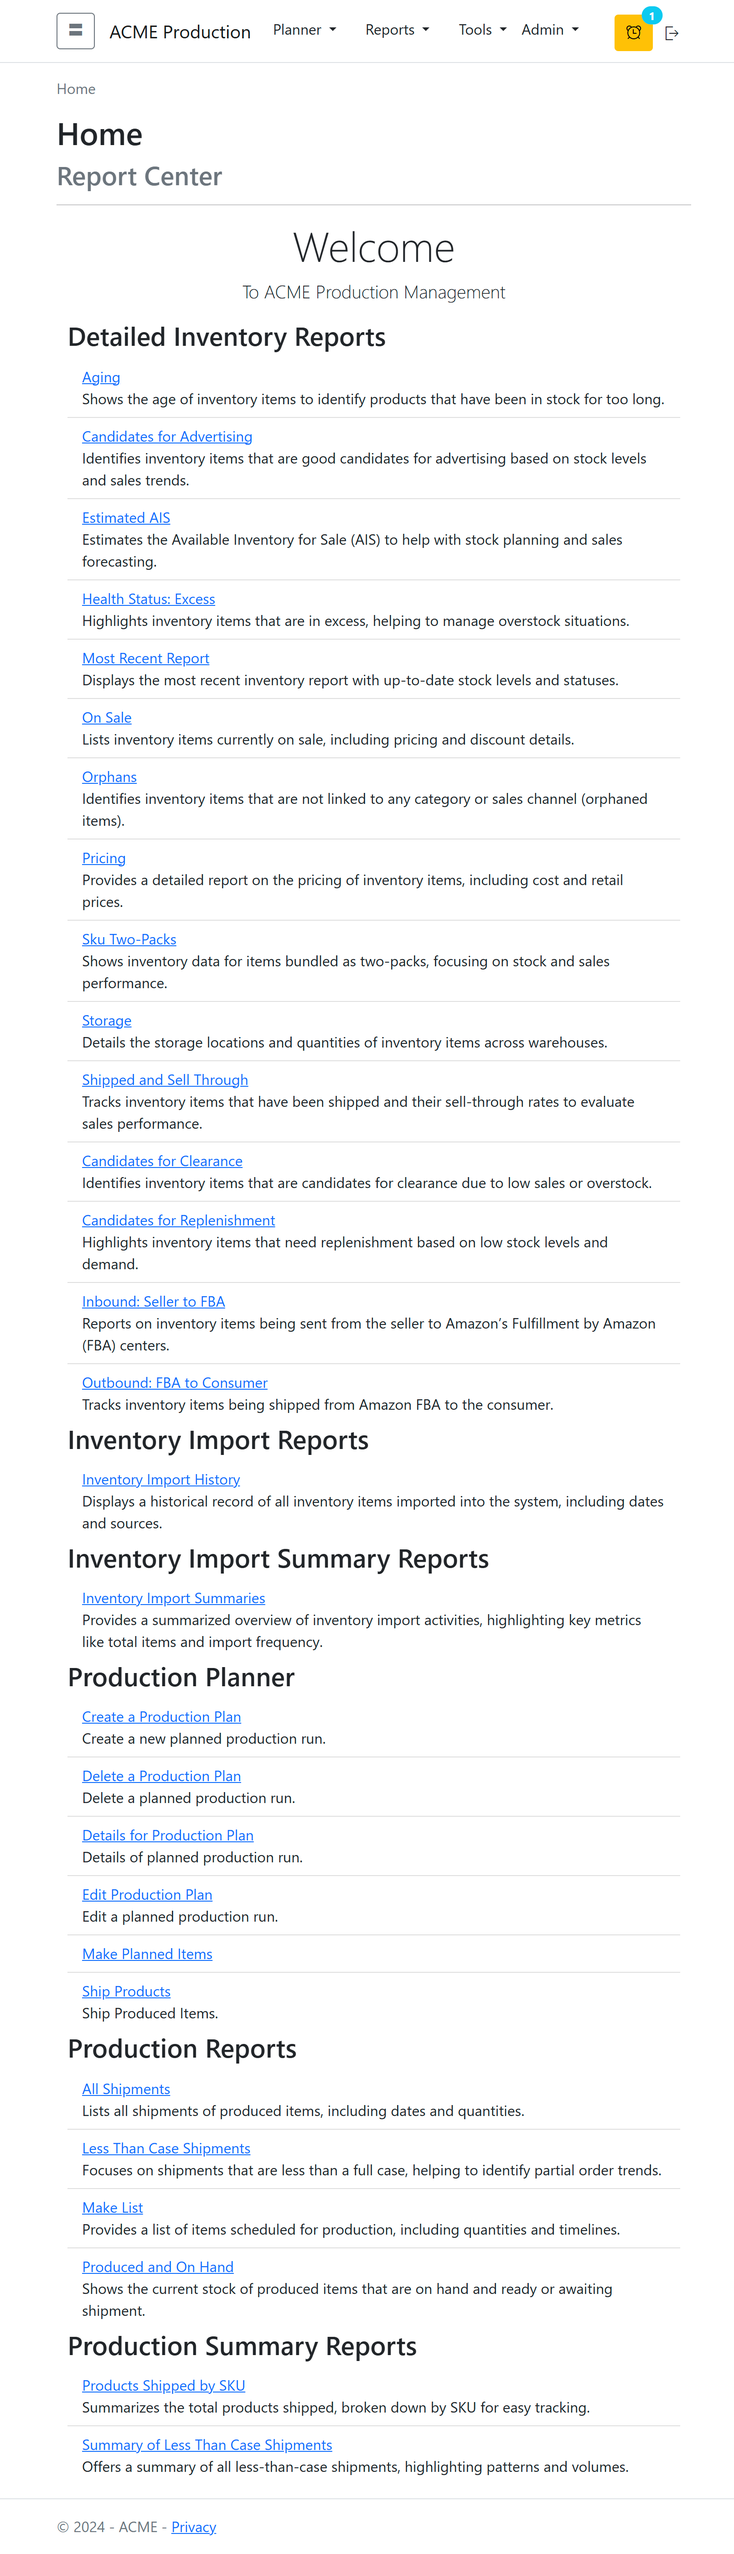
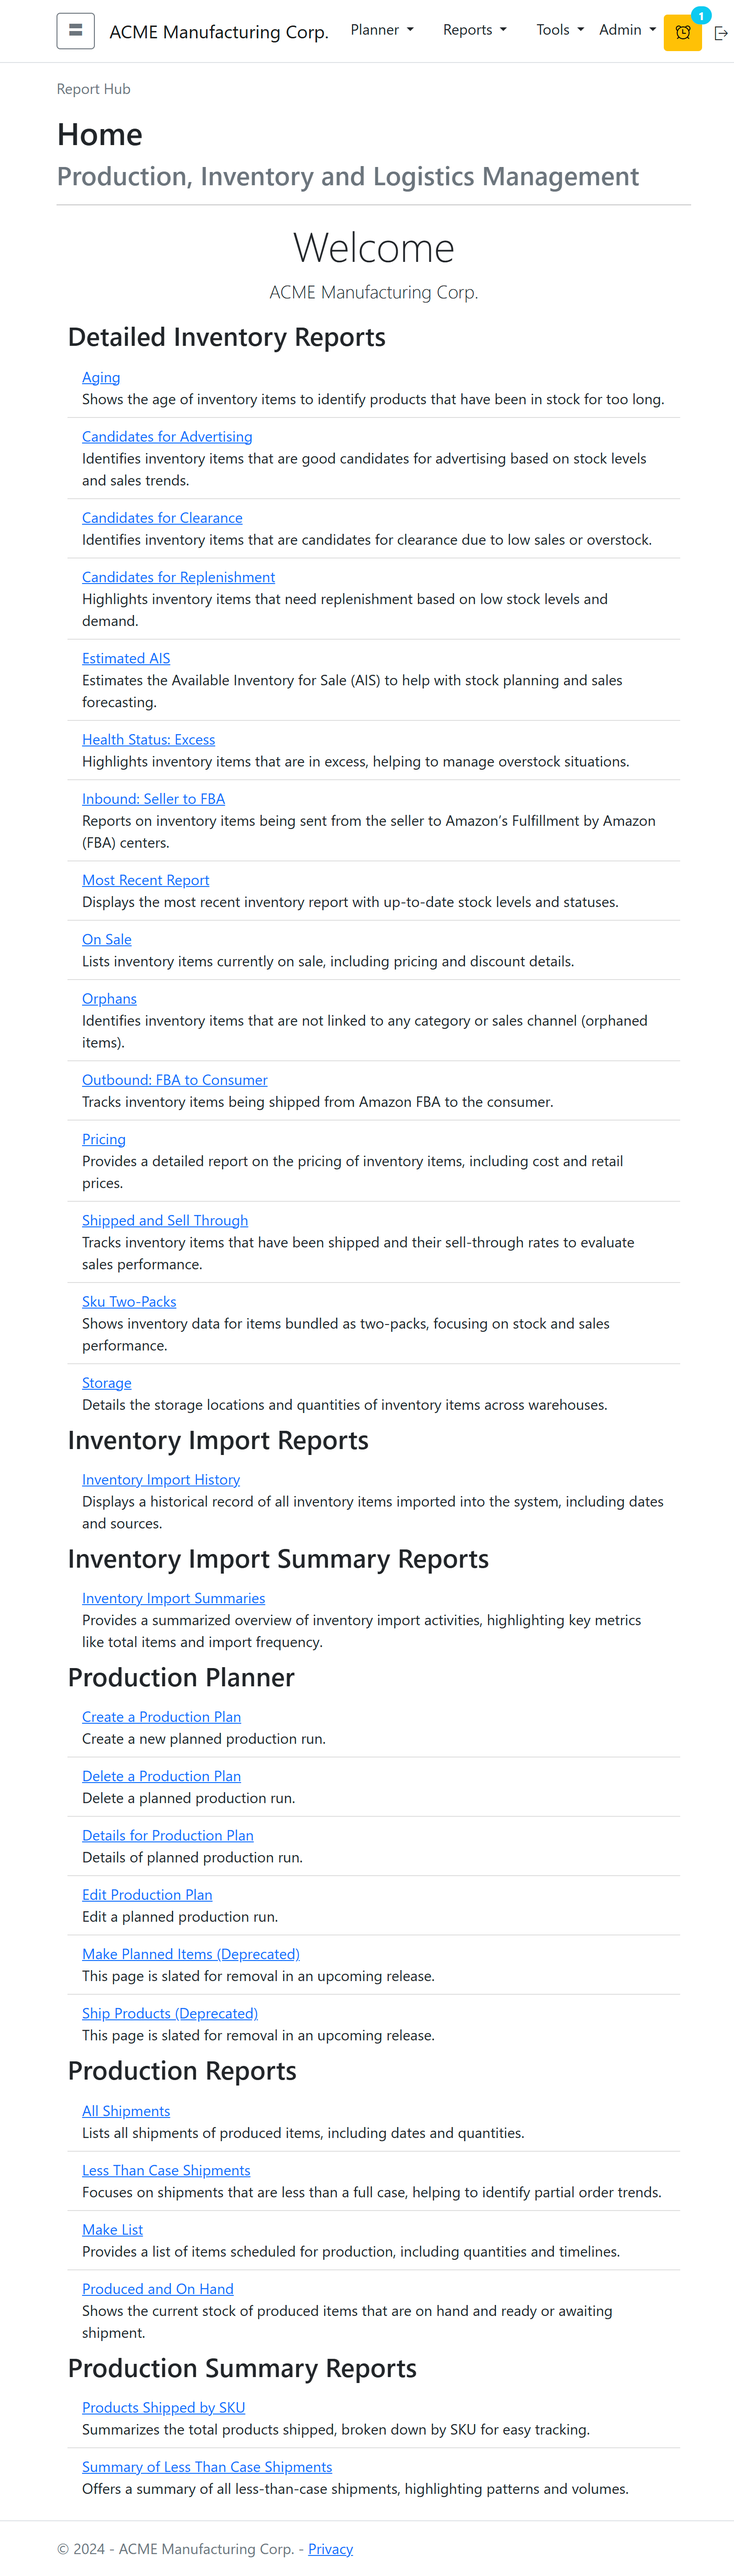
Report Hub page model

diff --git a/UniversalReportCore.Ui/ReportHubPageModel.cs b/UniversalReportCore.Ui/ReportHubPageModel.cs
@@ -1,0 +1,41 @@
+using Microsoft.AspNetCore.Mvc;
+using Microsoft.AspNetCore.Mvc.RazorPages;
+using System;
+using System.Collections.Generic;
+using System.Linq;
+using System.Text;
+using System.Threading.Tasks;
+using UniversalReportCore.Helpers;
+using UniversalReportCore.PageMetadata;
+using UniversalReportCore.Ui.ViewModels;
+
+namespace UniversalReportCore.Ui
+{
+    public class ReportHubPageModel : PageModel
+    {
+        private readonly IPageMetaFactory _pageMetaFactory;
+
+        public List<ReportLinkViewModel> Reports { get; set; }
+
+        public ReportHubPageModel(IPageMetaFactory pageMetaFactory) 
+        {
+            _pageMetaFactory = pageMetaFactory;
+        }
+
+        public async Task<IActionResult> ReportHubPageGetAsync()
+        {
+            Reports = _pageMetaFactory.Providers
+                .Select(provider =>
+                {
+                    var meta = provider.GetPageMeta();
+                    return new ReportLinkViewModel("/Reports/Index", provider.Slug, meta.Title, meta.Subtitle, provider.Description, StringHelper.SplitPascalCase(provider.CategorySlug));
+                })
+                .OrderBy(item => item.Category)
+                .ThenBy(item => item.Subtitle)
+                .ThenBy(item => item.Title)
+                .ToList();
+
+            return Page();
+        }
+    }
+}
